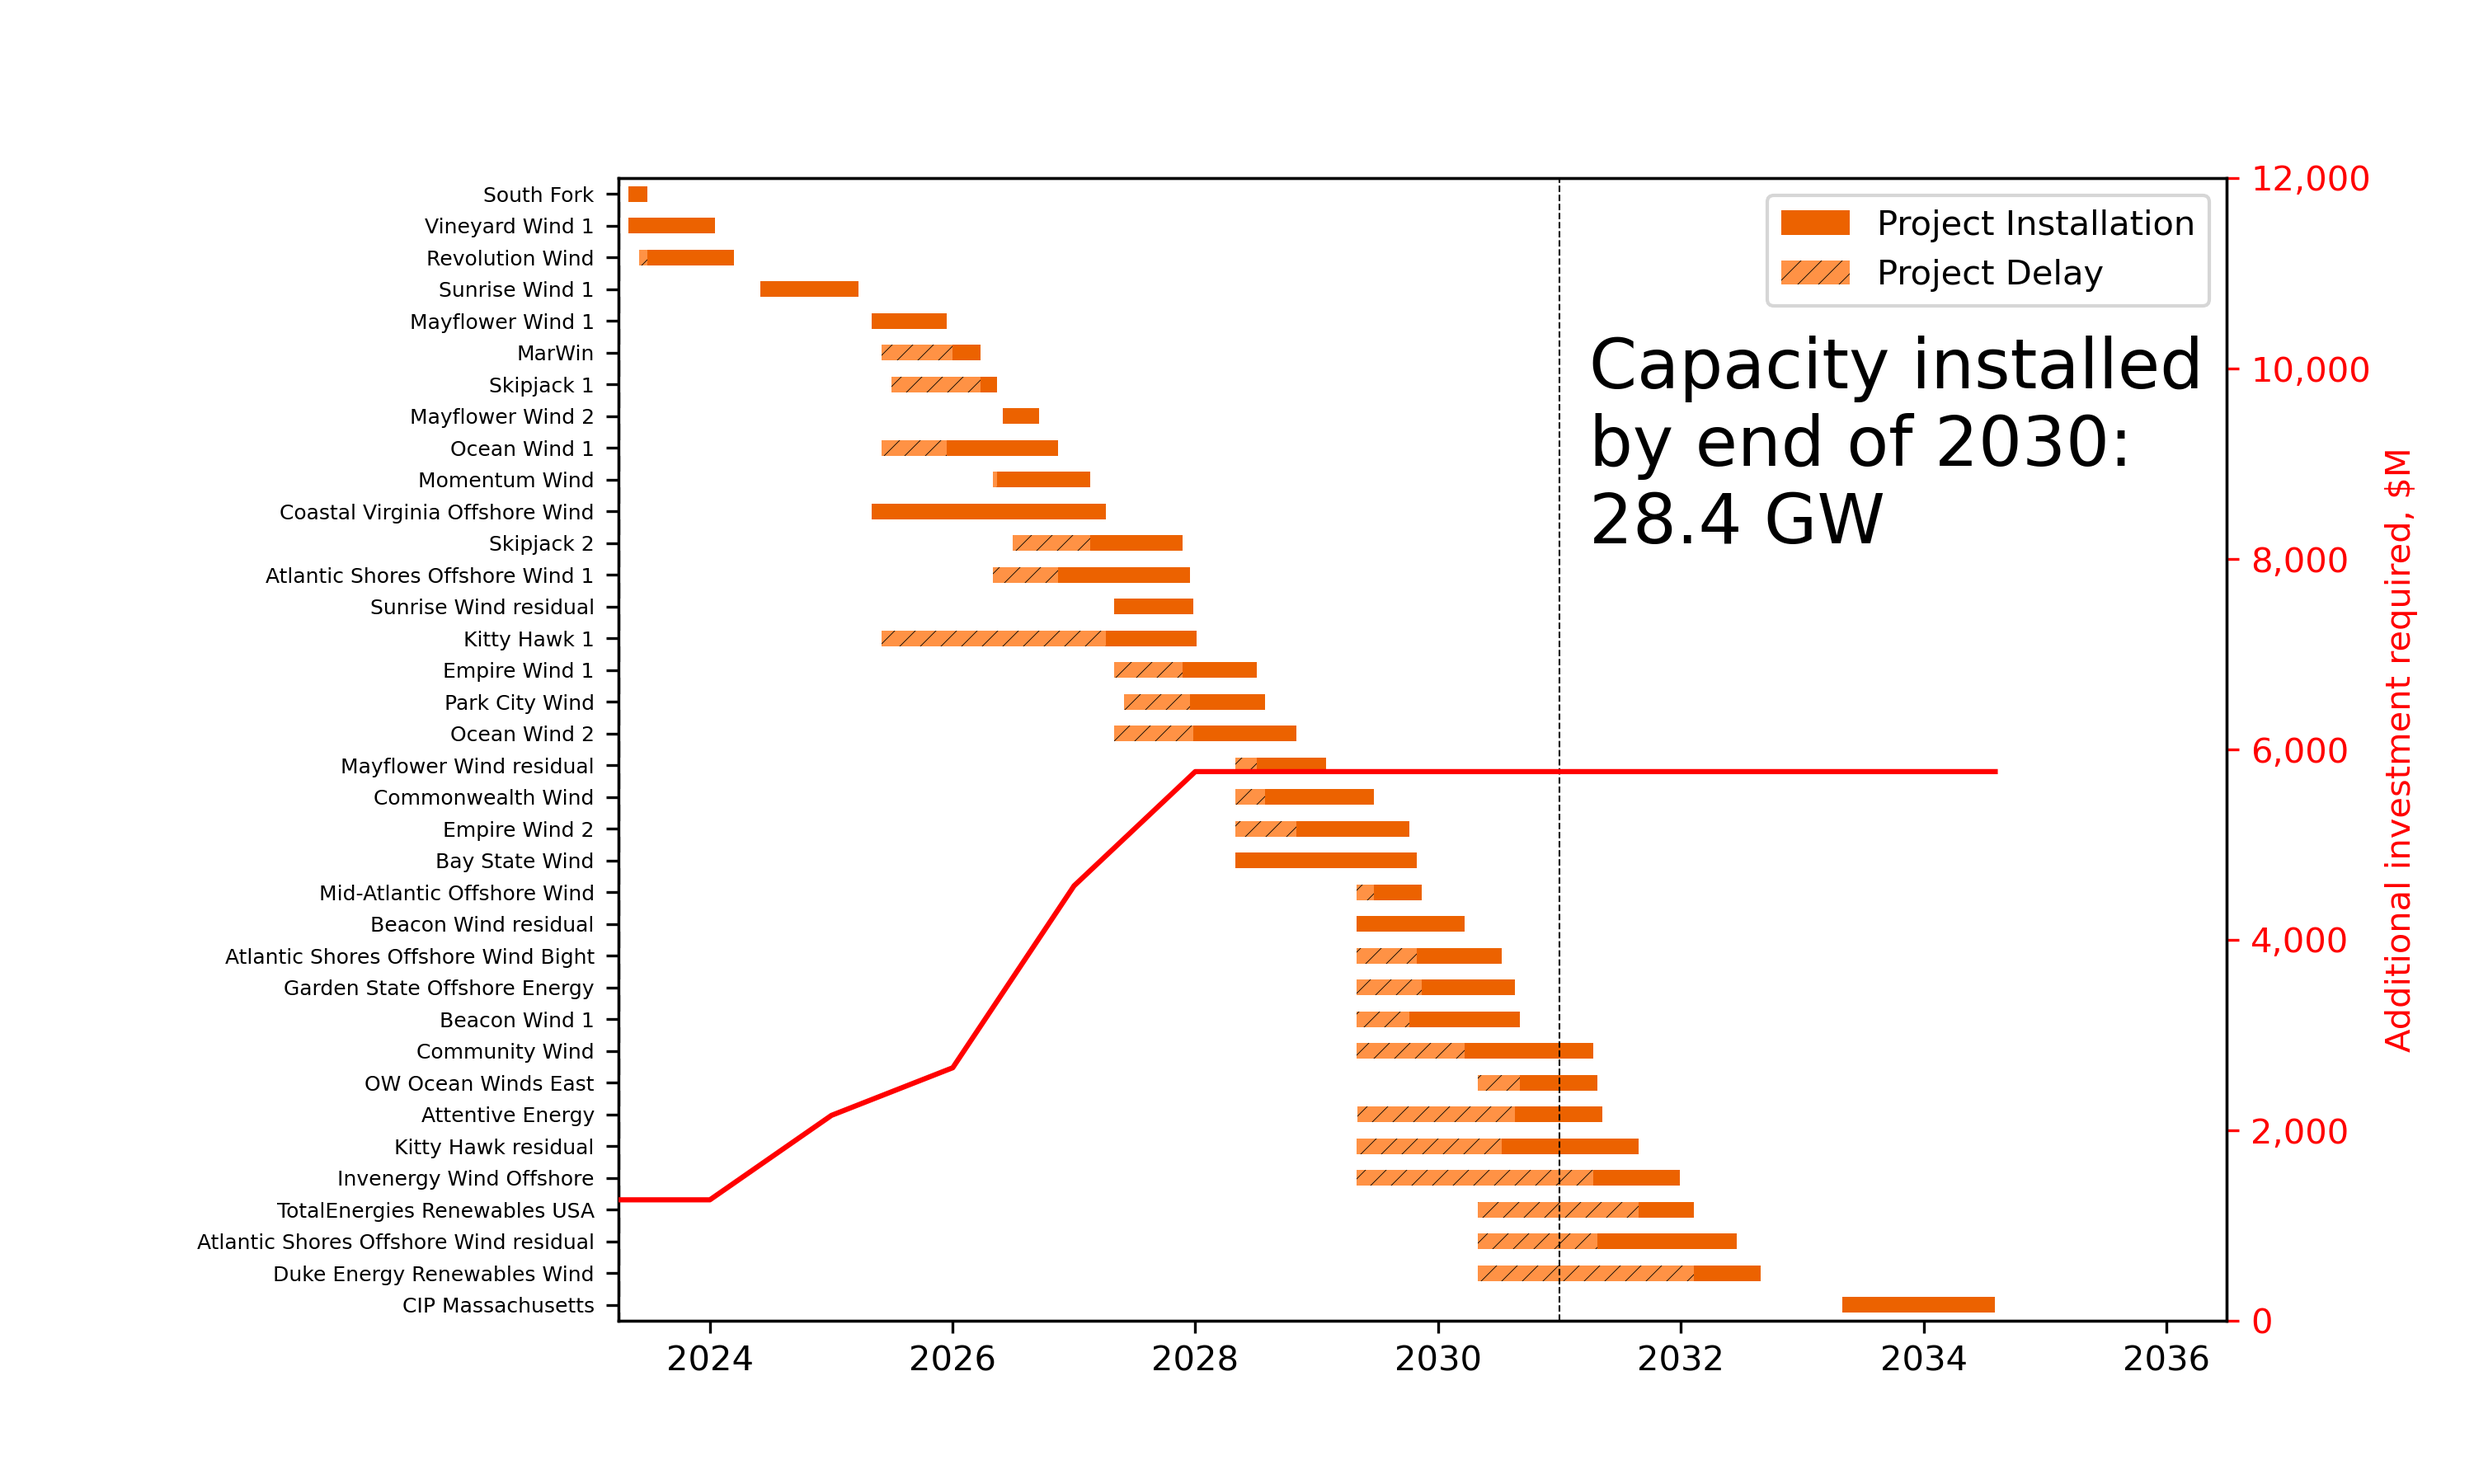
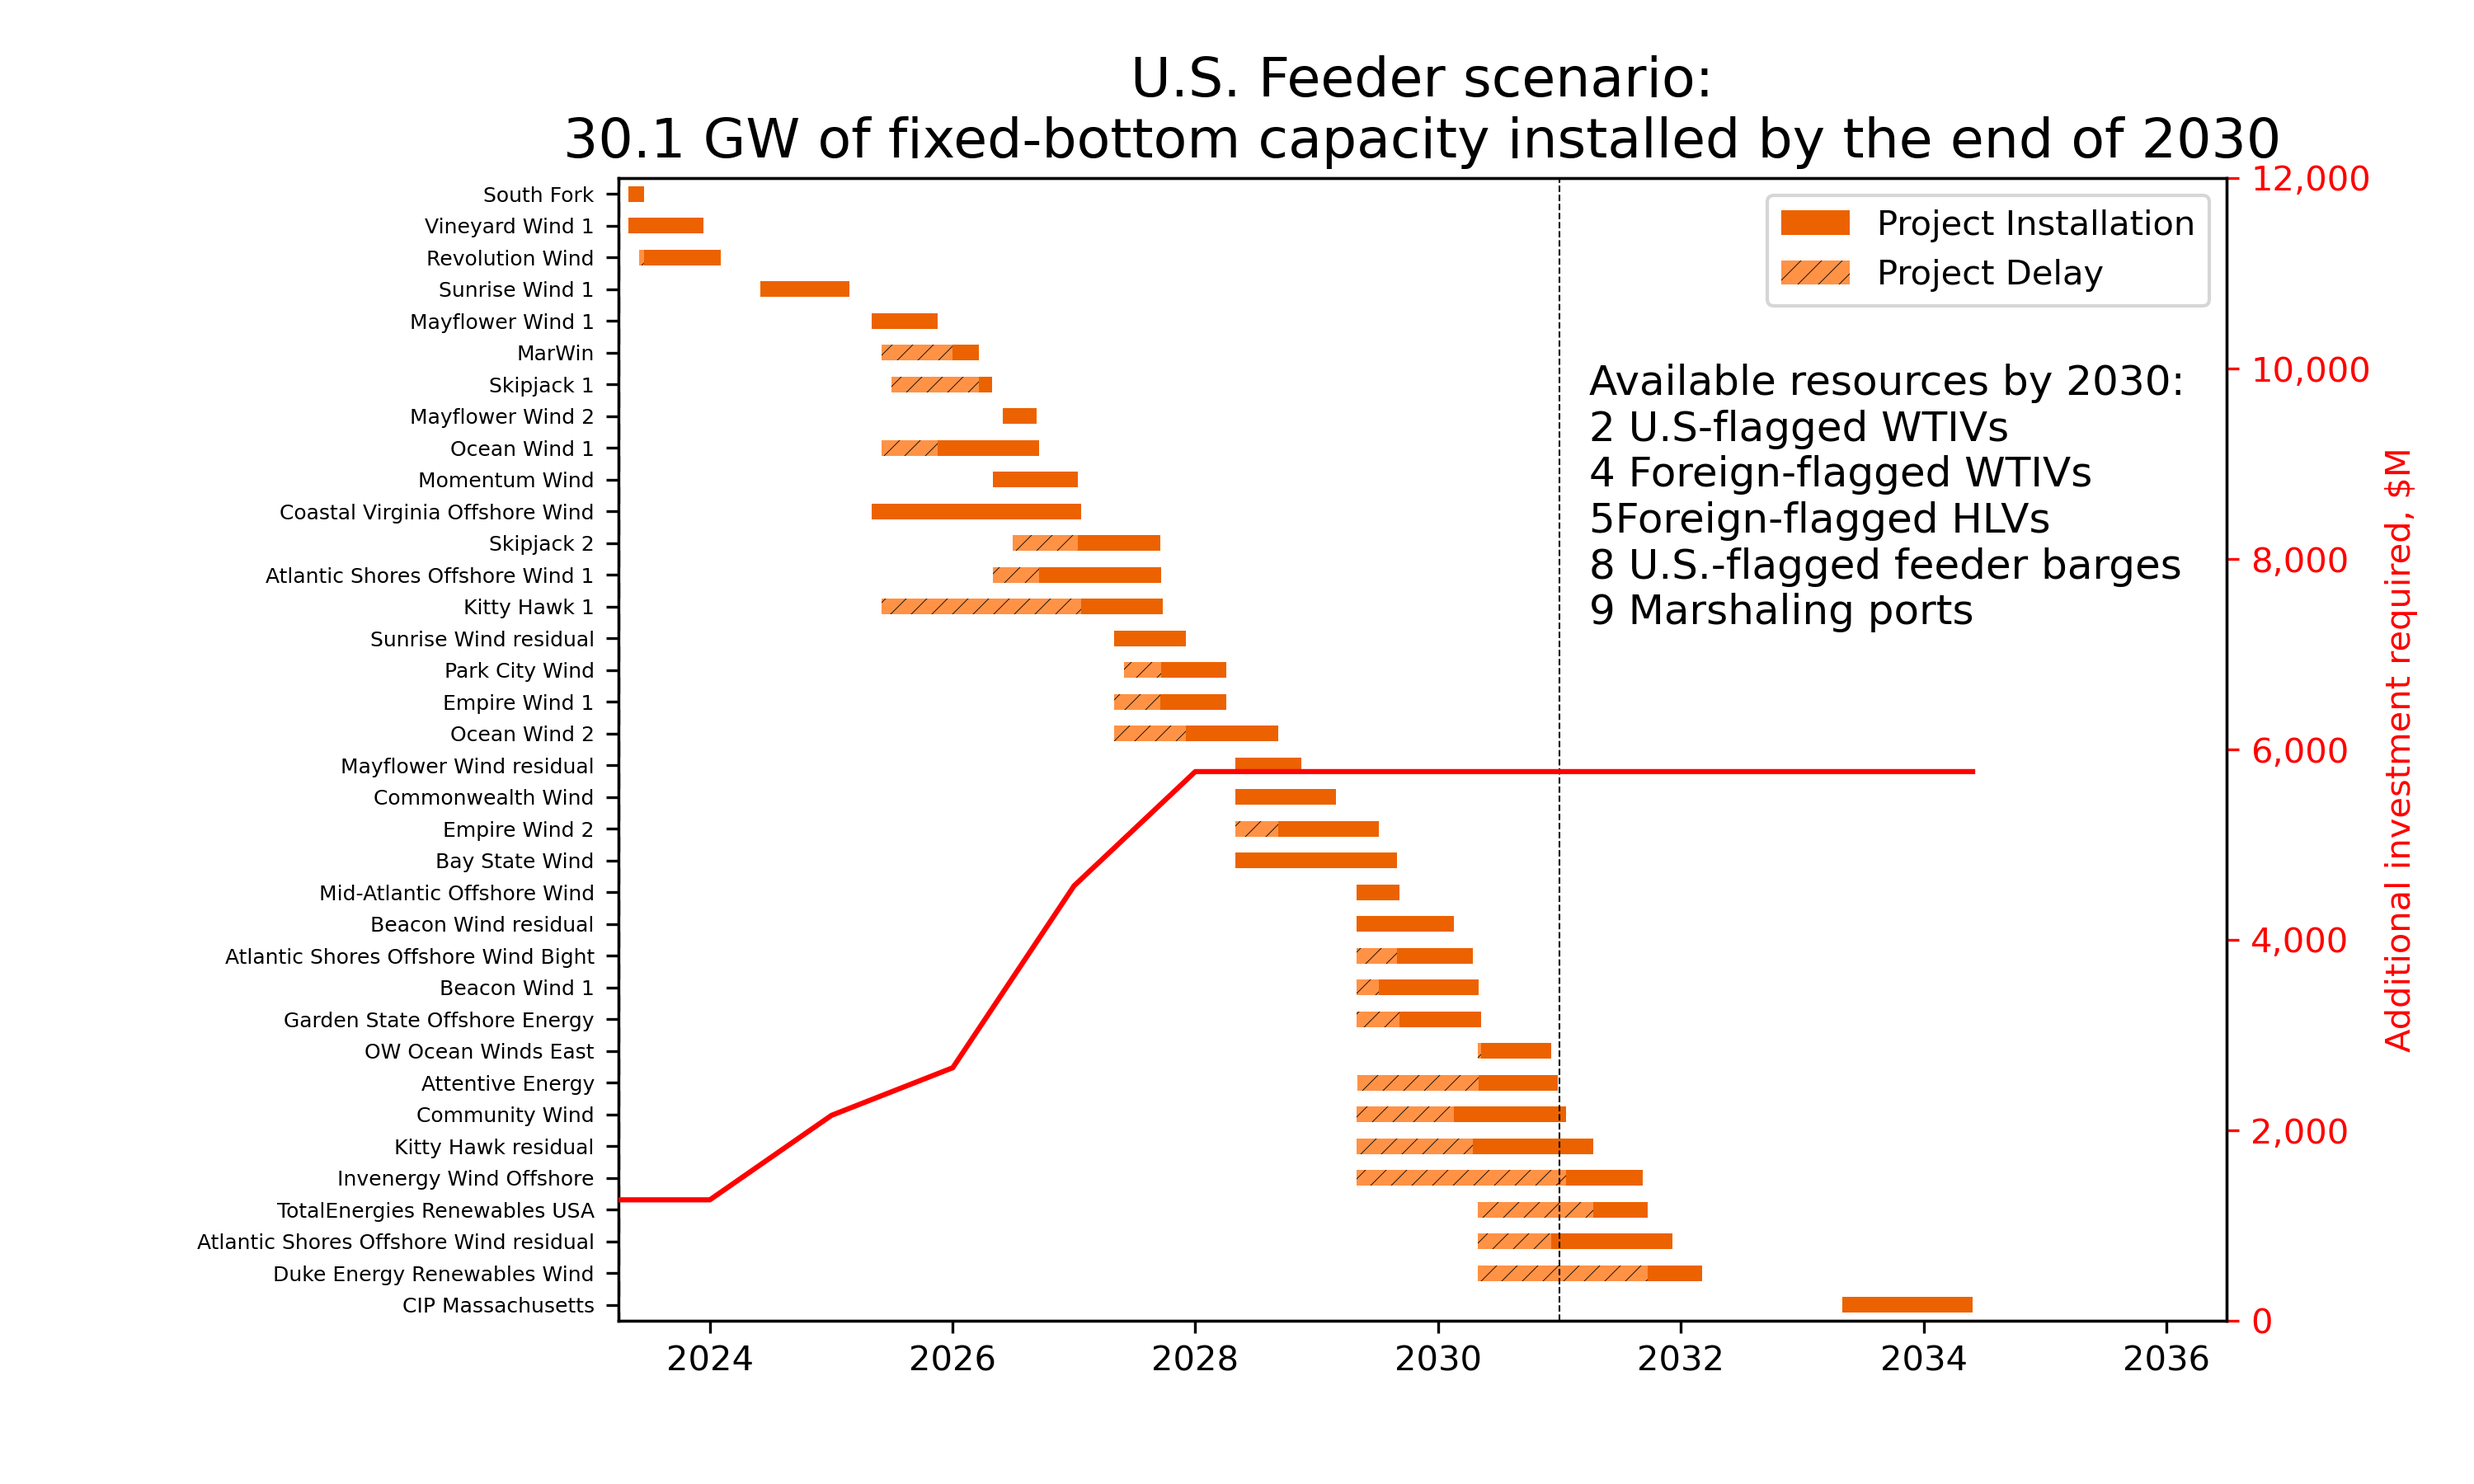
Updated title blocks and investmetn schedule for feeders

diff --git a/run_analysis.py b/run_analysis.py
@@ -18,27 +18,31 @@ from helpers import initial_allocations as ia
 from helpers import future_allocations as fa
 from helpers import investments as inv
 from helpers import plot_names_map as pnm
+from helpers import scenario_totals as st
 
 scenarios = {
     'baseline': {'pipeline': ip['base'],
                  'initial': ia['base'],
                  'future': fa['base'],
                  'invest': [inv['base']],
+                 'totals': st['baseline'],
                  'enforce_feeders': False,
                  'color_install': '#3D7F0B',
                  'color_delay': '#BBEB96'},
-     'US_WTIV': {'pipeline': ip['add_ports'],
+     'us_wtiv': {'pipeline': ip['add_ports'],
                   'initial': ia['us_wtiv'],
                   'future': fa['us_wtiv'],
                   'invest': [inv['us_wtiv']],
+                  'totals': st['us_wtiv'],
                   'enforce_feeders': False,
                   'color_install': '#0D3D5C',
                   'color_delay': '#7EA5BF'
                   },
-       'US_feeder': {'pipeline': ip['add_ports'],
+       'us_feeder': {'pipeline': ip['add_ports'],
                     'initial': ia['us_feeder'],
                     'future': fa['us_feeder'],
                     'invest': [inv['us_wtiv']],
+                    'totals': st['us_feeder'],
                     'enforce_feeders': True,
                     'color_install': '#EC6200',
                     'color_delay': '#FF9245'
@@ -66,6 +70,7 @@ if __name__ == '__main__':
         allocations = scenario['initial']
         future_resources = scenario['future']
         investment = scenario['invest']
+        totals = scenario['totals']
         feeders = scenario['enforce_feeders']
         color_install = scenario['color_install']
         color_delay = scenario['color_delay']
@@ -74,16 +79,16 @@ if __name__ == '__main__':
         base = os.path.join(os.getcwd(), "east_coast_analysis/base.yaml")
         pipeline = Pipeline(projects, base, regional_ports=False, enforce_feeders=feeders)
 
-        num_wtiv = allocations['wtiv'][1]
+        num_wtiv = allocations['wtiv'][1][1]
         num_port = len(allocations['port'])
 
-        manager = GlobalManager(pipeline.configs, allocations, library_path=library_path, weather=weather)
+        manager = GlobalManager(pipeline.configs, allocations, library_path=library_path)
 
         new_wtiv = [1 for fr in future_resources if 'wtiv' in fr]
         new_ports = [1 for fr in future_resources if 'port' in fr]
 
-        # total_wtiv = np.sum([num_wtiv]+new_wtiv)
-        total_wtiv = 99
+        total_wtiv = np.sum([num_wtiv]+new_wtiv)
+        # total_wtiv = 99
         total_ports = np.sum([num_port]+new_ports)
 
         # fig_name = str(total_wtiv)+'wtiv_'+str(total_ports)+'ports_'+name
@@ -130,7 +135,20 @@ if __name__ == '__main__':
 
         ax.axvline(dt.date(2031, 1, 1), lw=0.5, ls="--", color="k", zorder=6)
         installed_capacity = get_installed_capacity_by(df, 2031)
-        ax.text(x=dt.date(2031, 4, 1), y=24, s=f"Capacity installed \nby end of 2030: \n{installed_capacity/1000:,.3} GW", fontsize=20)
+        # ax.text(x=dt.date(2031, 4, 1), y=24, s=f"Capacity installed \nby end of 2030: \n{installed_capacity/1000:,.3} GW", fontsize=16)
+        # ax.text(x=dt.date(2031, 4, 1), y=24, s=f"{installed_capacity/1000:,.3} GW installed by the end of 2030", fontsize=16)
+
+        # plt.title('subtitle', fontsize=16)
+        end_infrastructure = 'Available resources by 2030: \n' + \
+                                str(totals['us_wtivs']) + ' U.S-flagged WTIVs \n' + \
+                                str(totals['foreign_wtivs']) + ' Foreign-flagged WTIVs \n' + \
+                                str(totals['hlvs']) + 'Foreign-flagged HLVs \n' + \
+                                str(totals['feeders']) + ' U.S.-flagged feeder barges \n' + \
+                                str(totals['ports']) + ' Marshaling ports \n'
+        end_deployment = pnm[name] + ':\n' + f"{installed_capacity/1000:,.3} GW of fixed-bottom capacity installed by the end of 2030"
+
+        plt.title(end_deployment, fontsize=16)
+        ax.text(x=dt.date(2031, 4, 1), y=20, s=end_infrastructure, fontsize=12)
 
         # Add cumulative investments
         if cumsum_plot == True:

diff --git a/helpers.py b/helpers.py
@@ -90,11 +90,36 @@ port = 400
 investments = {
     'year': [2022, 2023, 2024, 2025, 2026, 2027, 2028, 2028, 2030, 2031, 2032],
     'base': [1270, 0, 0, 887, 0, 260, 0, 0, 0, 0, 0],
-    'us_wtiv': [1270, 0, 0, 887, 500, 1910, 1200, 0, 0, 0, 0]
+    'us_wtiv': [1270, 0, 0, 887, 500, 1910, 1200, 0, 0, 0, 0],
+    'us_feeder': [1270, 0, 0, 887, 1100, 1910, 1200, 0, 0, 0, 0],
 }  # Fixed bottom ports only
 
 plot_names_map = {
-'baseline': 'Baseline',
-'US_WTIV': 'US_WTIV',
-'US_feeder': 'US_feeder'
+'baseline': 'Baseline scenario',
+'us_wtiv': 'U.S. WTIV scenario',
+'us_feeder': 'U.S. Feeder scenario'
+}
+
+scenario_totals = {
+    'baseline': {
+        'us_wtivs': 2,
+        'foreign_wtivs': 1,
+        'hlvs': 2,
+        'feeders': 4,
+        'ports': 6
+    },
+    'us_wtiv': {
+        'us_wtivs': 5,
+        'foreign_wtivs': 1,
+        'hlvs': 5,
+        'feeders': 4,
+        'ports': 9
+    },
+    'us_feeder': {
+        'us_wtivs': 2,
+        'foreign_wtivs': 4,
+        'hlvs': 5,
+        'feeders': 8,
+        'ports': 9
+    }
 }
